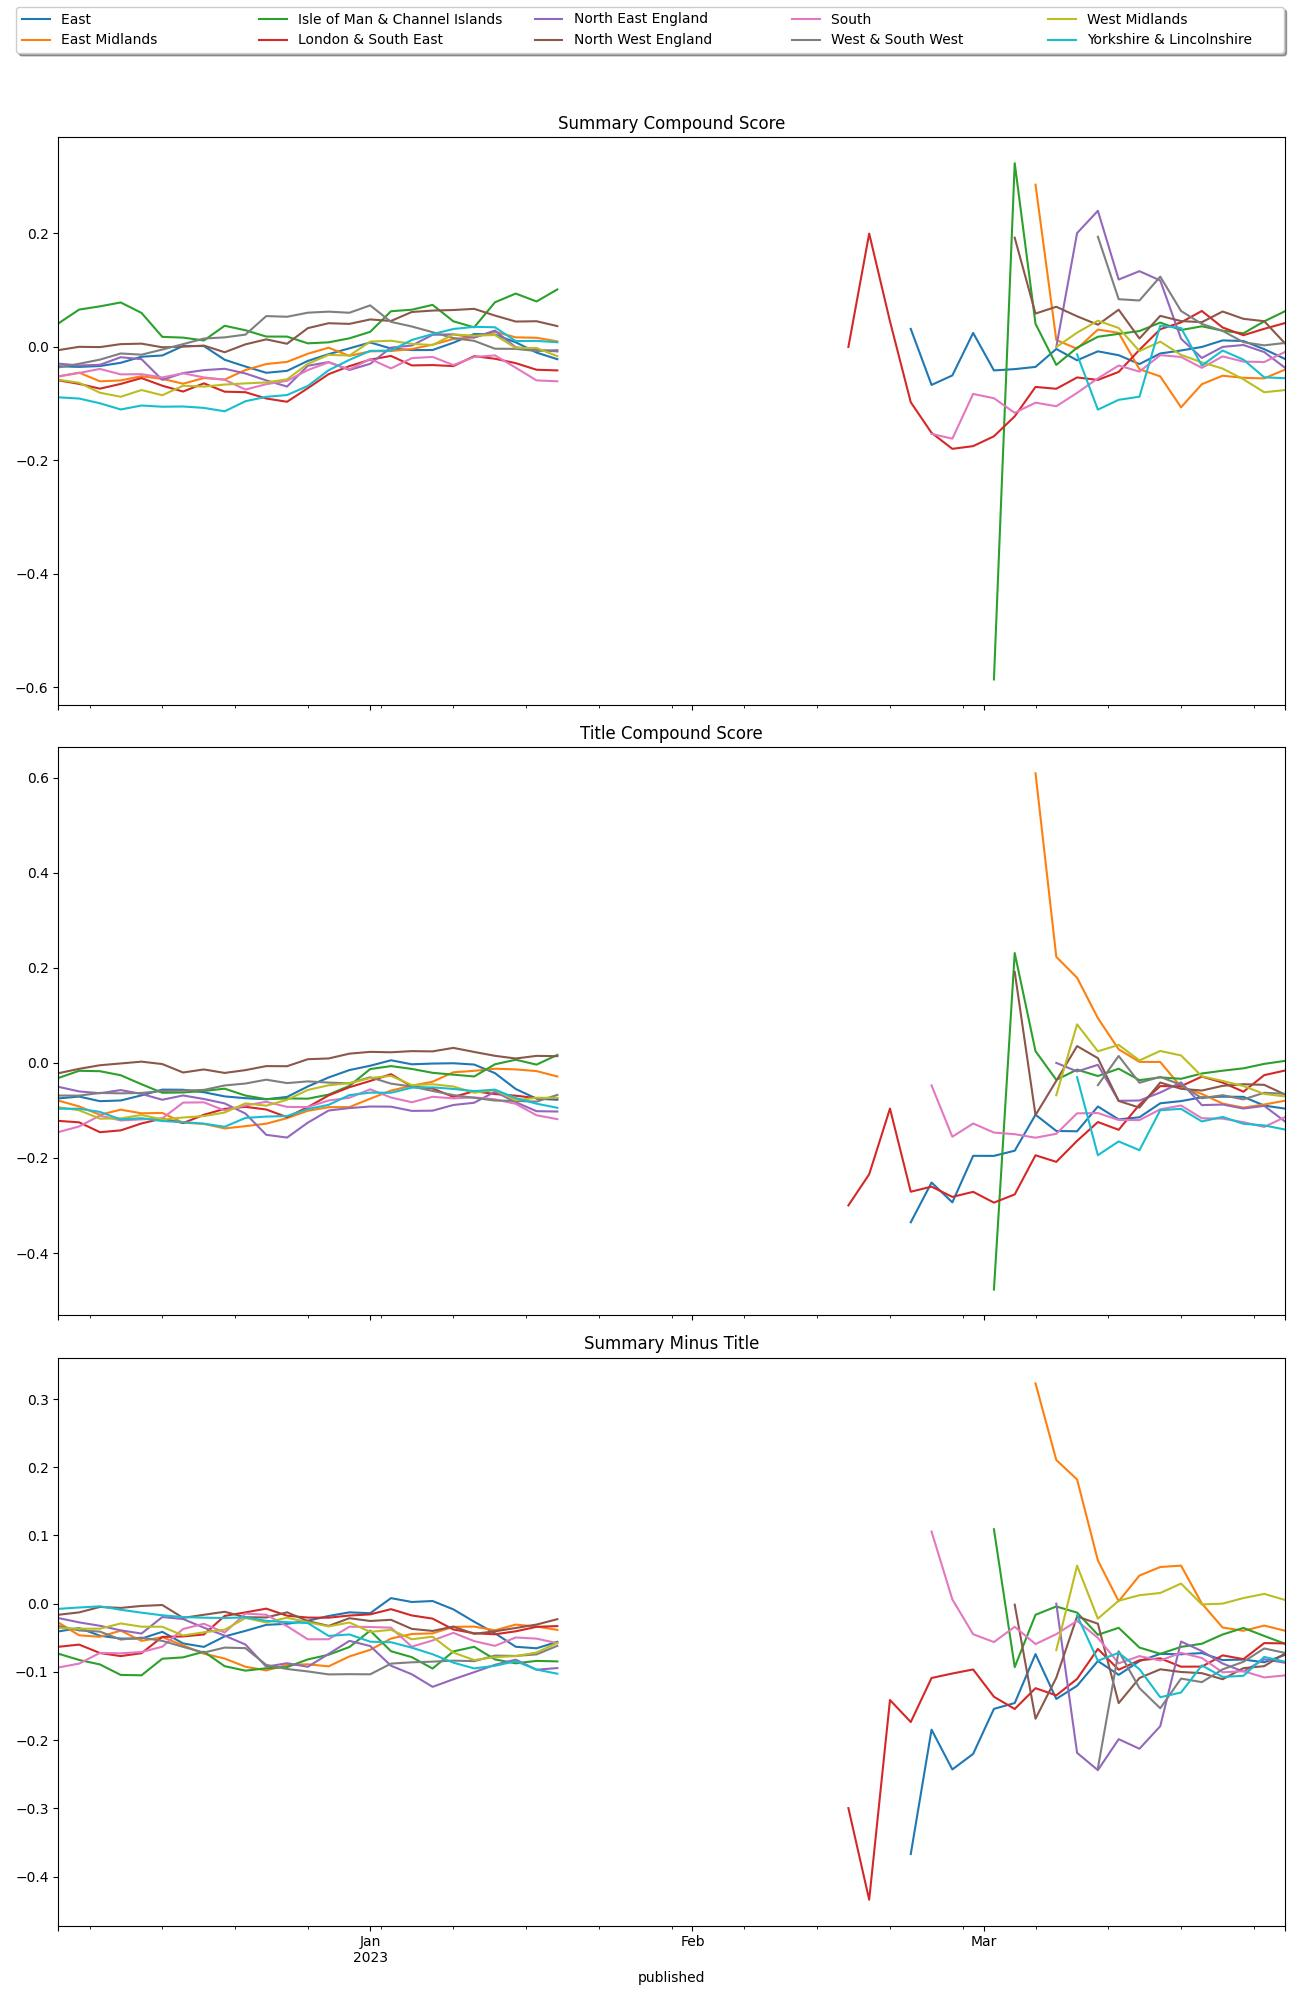
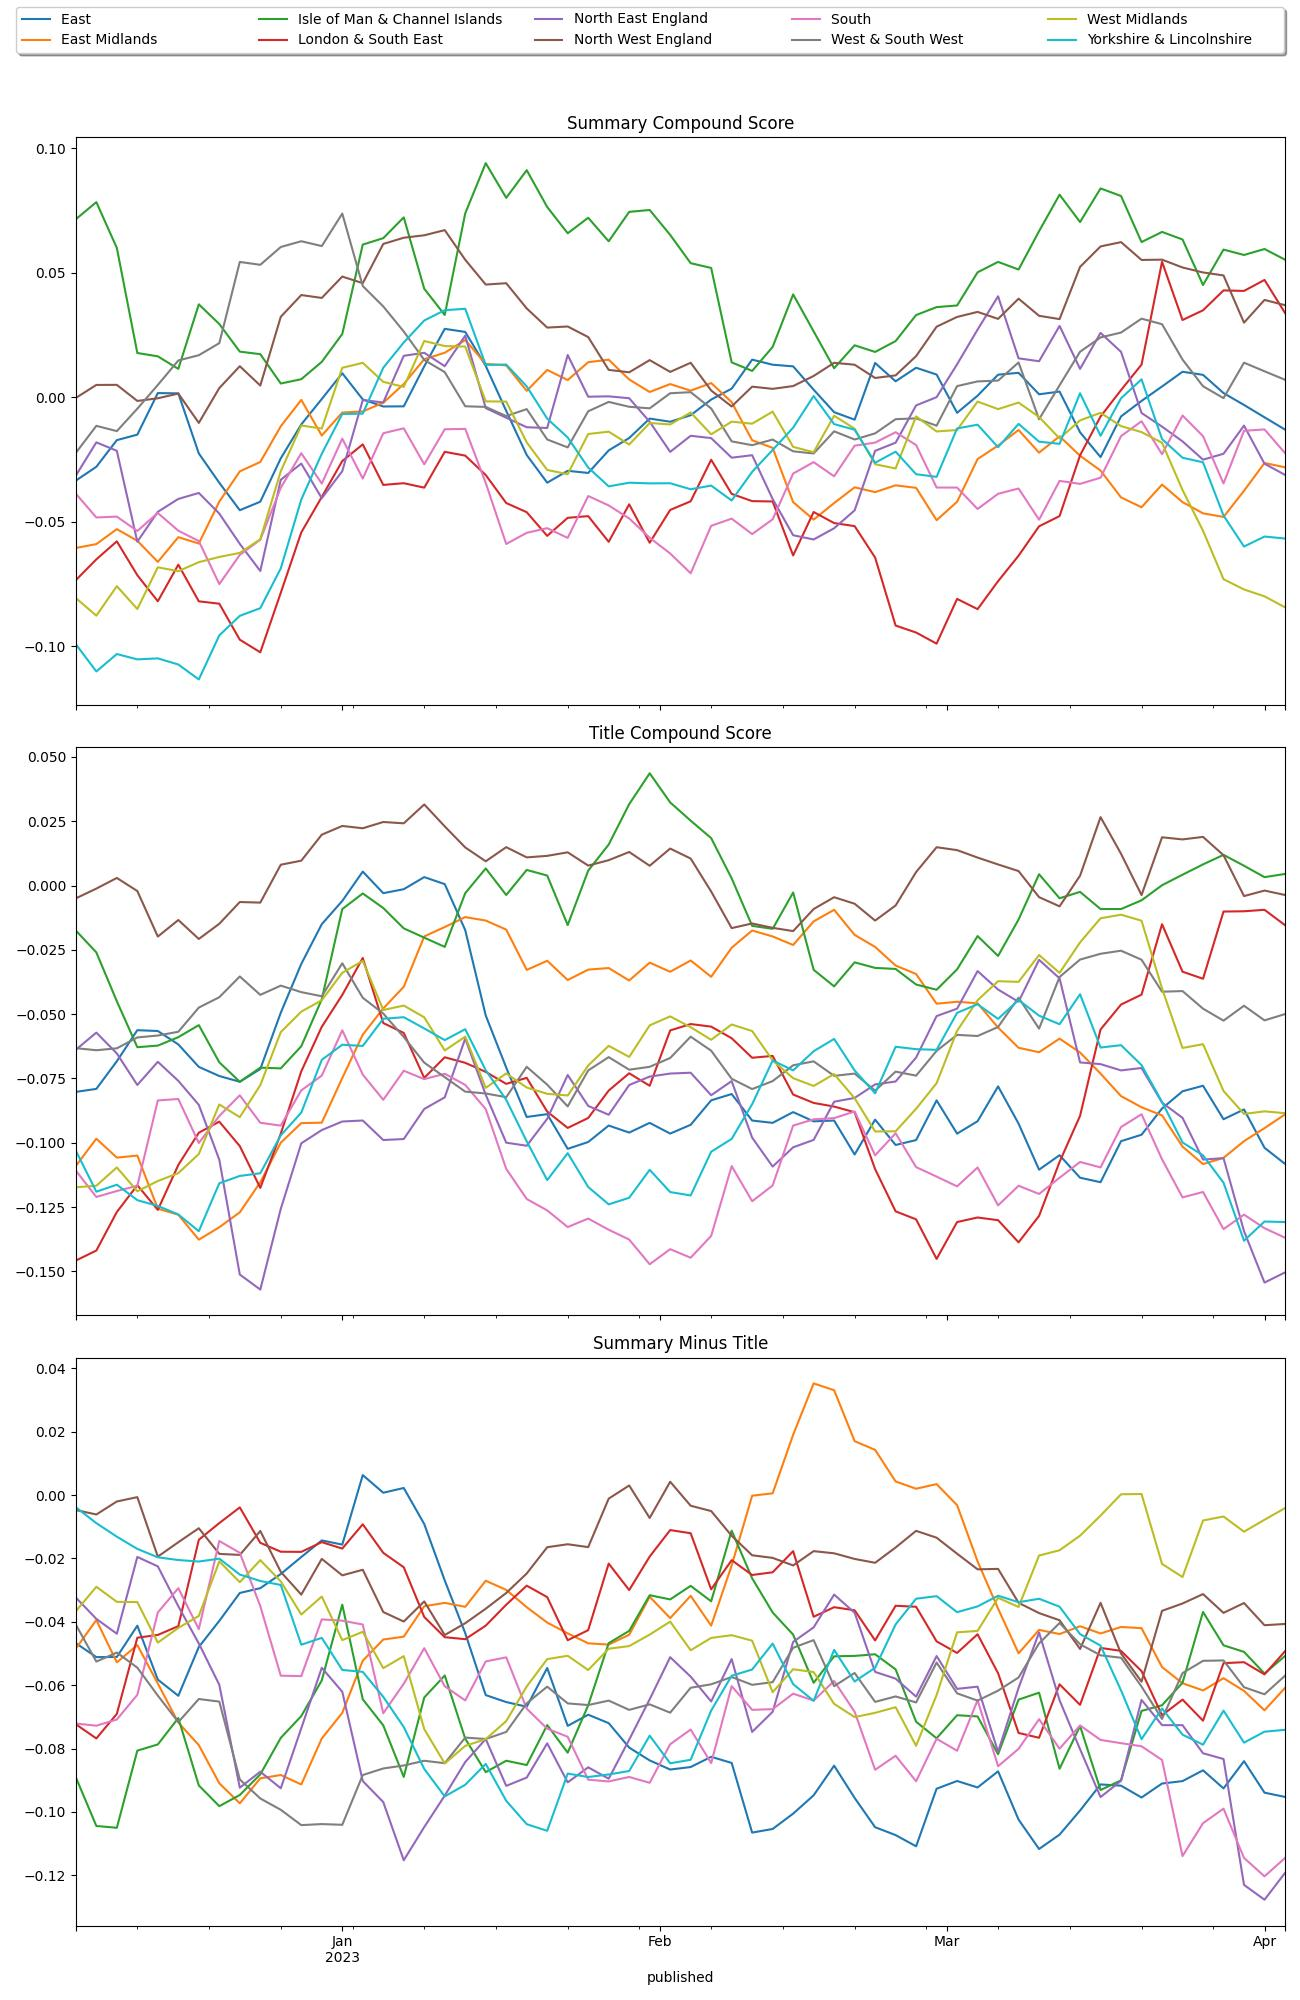
streamline a bit

diff --git a/src/basic_report.py b/src/basic_report.py
@@ -7,6 +7,7 @@ import nltk
 import pandas as pd
 from aswan import ParsedCollectionEvent
 from nltk.sentiment import SentimentIntensityAnalyzer
+from structlog import get_logger
 
 from .collect import BBCPatientCollector, Collect, get_locales_table
 
@@ -23,20 +24,49 @@ class Article(dz.AbstractEntity):
     summary = str
 
 
+class ArticleLocator(dz.AbstractEntity):
+
+    article = dz.Index & Article
+    place_id = dz.Index & str
+
+
+article_table = dz.ScruTable(Article)
+article_location_table = dz.ScruTable(ArticleLocator)
+
 renamer = {
     "lastPublished": Article.published,
     "assetId": Article.aid,
 }
 
 
-@dz.register(outputs_nocache=[plot_jpg], dependencies=[Collect])
-def step(last_days: int):
+def load_data():
     c = Collect()
-    coll_df = pd.concat(map(_parse_pcev, c.get_all_events(BBCPatientCollector))).rename(
-        columns=renamer
+    coll_df = pd.concat(
+        map(_parse_pcev, c.get_unprocessed_events(BBCPatientCollector))
+    ).rename(columns=renamer)
+    article_table.replace_records(coll_df.drop_duplicates(subset=Article.aid))
+    article_location_table.replace_records(
+        coll_df.rename(columns={Article.aid: ArticleLocator.article.aid})
+        .loc[:, article_location_table.all_cols]
+        .drop_duplicates()
     )
-    ua_df = coll_df.drop_duplicates(subset=Article.aid).pipe(dz.parse_df, Article)
+
+
+@dz.register(
+    outputs_nocache=[plot_jpg, latest_md],
+    dependencies=[Collect],
+    outputs_persist=[article_location_table, article_table],
+)
+def step(last_days: int):
+
+    try:
+        load_data()
+    except ValueError as e:
+        get_logger().info(f"not loaded: {e}")
+
     locale_base = get_locales_table().dropna()
+    ua_df = article_table.get_full_df()
+    coll_df = article_location_table.get_full_df()
 
     nltk.download("vader_lexicon")
     sia = SentimentIntensityAnalyzer()
@@ -51,13 +81,12 @@ def step(last_days: int):
     ).assign(summary_minus_title=lambda df: df.diff(axis=1).iloc[:, -1])
 
     scored_regions = (
-        coll_df.loc[:, [Article.aid, "pid"]]
-        .drop_duplicates()
-        .merge(locale_base.assign(pid=lambda df: df.iloc[:, -1].str.strip().tolist()))
+        coll_df.reset_index()
+        .merge(locale_base.pipe(_locale_extend))
         .merge(
-            comp_score_df.assign(
-                **{Article.published: ua_df[Article.published]}
-            ).reset_index()
+            comp_score_df.assign(**{Article.published: ua_df[Article.published]}),
+            left_on=ArticleLocator.article.aid,
+            right_index=True,
         )
     )
 
@@ -107,7 +136,12 @@ def step(last_days: int):
 
 
 def _parse_pcev(pcev: ParsedCollectionEvent):
-    push_id, page_num = re.findall("(uk-england-\d+).*pageNumber%2F(\d+)", pcev.url)[0]
+    push_id, _ = re.findall("(uk-england-\d+).*pageNumber%2F(\d+)", pcev.url)[0]
     return pd.DataFrame(pcev.content["payload"][0]["body"]["results"]).assign(
-        page=int(page_num), pid=push_id
+        **{ArticleLocator.place_id: push_id}
     )
+
+
+def _locale_extend(df):
+    aser = df.iloc[:, -1].str.strip().tolist()
+    return df.assign(**{ArticleLocator.place_id: aser})

diff --git a/src/collect.py b/src/collect.py
@@ -4,7 +4,7 @@ import datazimmer as dz
 import pandas as pd
 from aswan import RequestJsonHandler, add_url_params
 
-PAGES_TO_PULL = 4
+PAGES_TO_PULL = 20
 
 
 class BBCPatientCollector(RequestJsonHandler):

diff --git a/reports/complete/latest.md b/reports/complete/latest.md
@@ -1,12 +1,12 @@
-| region                        | published                  | summary                                                                                                                                                                | title                                               | url                                      |   summary_compound_score |   title_compound_score |   summary_minus_title |
-|:------------------------------|:---------------------------|:-----------------------------------------------------------------------------------------------------------------------------------------------------------------------|:----------------------------------------------------|:-----------------------------------------|-------------------------:|-----------------------:|----------------------:|
-| East                          | 2023-01-22 16:16:29        | Nadhim Zahawi should release "the absolute facts" on his taxes, ex-Tory party leader Sir Iain Duncan Smith says.                                                       | 'Get it all out now' over tax affairs, Zahawi urged | /news/uk-politics-64364816               |                   0.4019 |                 0      |               -0.4019 |
-| East Midlands                 | 2023-01-22 11:25:26        | The cedars at St Peter's in Oadby were partially felled after branches came down in the churchyard.                                                                    | Church tree stumps turned into sculptures           | /news/uk-england-leicestershire-64320494 |                   0      |                 0      |                0      |
-| Isle of Man & Channel Islands | 2023-01-22 15:36:14        | The family of Joseph Rice, who had been missing since Friday, have been informed, Manx police say.                                                                     | Body found in search for 78-year-old man            | /news/world-europe-isle-of-man-64366944  |                  -0.296  |                 0      |                0.296  |
-| London & South East           | 2023-01-22 15:10:14        | South Western Railway warns a permanent fix of the line near Hook in Hampshire is "some weeks away".                                                                   | Some rail services to resume after landslip repair  | /news/uk-england-hampshire-64365715      |                  -0.1027 |                 0      |                0.1027 |
-| North East England            | 2023-01-22 15:12:29        | Ross Stewart and Amad Diallo are on target as Sunderland overcome 10-man Middlesbrough in the Wear-Tees derby.                                                         | Stewart & Diallo help Sunderland beat 10-man Boro   | /sport/football/64279729                 |                   0      |                 0.4019 |                0.4019 |
-| North West England            | 2023-01-22 16:30:45.644000 |                                                                                                                                                                        | Man City 3-0 Wolves: What Guardiola said            | /sport/articles/c519z0g89m6o             |                   0      |                 0      |                0      |
-| South                         | 2023-01-22 16:09:22        | Rachel Williams scores a superb solo goal to beat Reading and send Manchester United top of the Women’s Super League.                                                  | Man Utd strike late to beat Reading and top WSL     | /sport/football/64279736                 |                   0.9118 |                 0.0772 |               -0.8346 |
-| West & South West             | 2023-01-22 13:58:24        | The vehicle went down an embankment in west Cornwall, forcing services to be cancelled all day.                                                                        | Car abandoned on railway line                       | /news/uk-england-cornwall-64365637       |                  -0.25   |                -0.4588 |               -0.2088 |
-| West Midlands                 | 2023-01-22 16:17:45        | Erling Haaland scores his fourth Manchester City hat-trick and takes his tally for the season to 31 in all competitions as relegation-threated Wolves are swept aside. | Haaland hat-trick helps Man City cut Arsenal lead   | /sport/football/64279779                 |                   0      |                 0.128  |                0.128  |
-| Yorkshire & Lincolnshire      | 2023-01-22 16:35:40        | Brentford manager Thomas Frank praises his side for their "impressive" run of eight games unbeaten in the Premier League following a 0-0 draw against Leeds United.    | Frank praises Brentford's 'impressive' unbeaten run | /sport/av/football/64296481              |                   0.7351 |                 0.5267 |               -0.2084 |
+| region                        | published           | summary                                                                                                                                  | title                                                                 | url                                  |   summary_compound_score |   title_compound_score |   summary_minus_title |
+|:------------------------------|:--------------------|:-----------------------------------------------------------------------------------------------------------------------------------------|:----------------------------------------------------------------------|:-------------------------------------|-------------------------:|-----------------------:|----------------------:|
+| East                          | 2023-04-03 08:57:57 | Defender Ben Gibson says Norwich are at "do or die time" but still believes they can get into the Championship play-offs.                | 'Time running out' for Norwich in play-off race                       | /sport/football/65161681             |                   0.3818 |                 0      |               -0.3818 |
+| East Midlands                 | 2023-04-03 09:25:20 | Derby County boss Paul Warne says his League One side faces a major rebuild in the summer.                                               | Derby squad needs surgery - Warne                                     | /sport/football/65161939             |                   0      |                 0      |                0      |
+| Isle of Man & Channel Islands | 2023-04-03 08:40:59 | The Friends of Fort Regent say in an open letter that politicians should scrutinize closure plans.                                       | Letter calls for Jersey sports closure review                         | /news/world-europe-jersey-65160752   |                   0.4767 |                 0      |               -0.4767 |
+| London & South East           | 2023-04-03 09:14:42 | More than 60 people have been convicted after the illegal event in the South Downs National Park.                                        | Men due in court over lockdown rave                                   | /news/uk-england-sussex-65162208     |                  -0.5574 |                 0      |                0.5574 |
+| North East England            | 2023-04-03 09:00:09 | Match of the Day pundit Alan Shearer says Eddie Howe has reignited Newcastle's bid for a top-four finish after their slow start to 2023. | ‘It’s onwards & upwards from here’ - how Howe has reignited Newcastle | /sport/football/65156009             |                   0      |                 0      |                0      |
+| North West England            | 2023-04-03 09:00:09 | Match of the Day pundit Alan Shearer says Eddie Howe has reignited Newcastle's bid for a top-four finish after their slow start to 2023. | ‘It’s onwards & upwards from here’ - how Howe has reignited Newcastle | /sport/football/65156009             |                   0      |                 0      |                0      |
+| South                         | 2023-04-03 09:14:42 | More than 60 people have been convicted after the illegal event in the South Downs National Park.                                        | Men due in court over lockdown rave                                   | /news/uk-england-sussex-65162208     |                  -0.5574 |                 0      |                0.5574 |
+| West & South West             | 2023-04-03 09:14:42 | More than 60 people have been convicted after the illegal event in the South Downs National Park.                                        | Men due in court over lockdown rave                                   | /news/uk-england-sussex-65162208     |                  -0.5574 |                 0      |                0.5574 |
+| West Midlands                 | 2023-04-03 09:38:28 | The disruption between Shrewsbury and Birmingham International is set to last until 18:30 BST.                                           | Trains cancelled amid signalling staff shortage                       | /news/uk-england-shropshire-65160483 |                  -0.3612 |                -0.4588 |               -0.0976 |
+| Yorkshire & Lincolnshire      | 2023-04-03 09:37:51 | Police say the man sustained fatal injuries and died at the scene near Pocklington on Sunday.                                            | Motorcyclist killed after bike leaves road                            | /news/uk-england-humber-65162597     |                  -0.7964 |                -0.6705 |                0.1259 |
